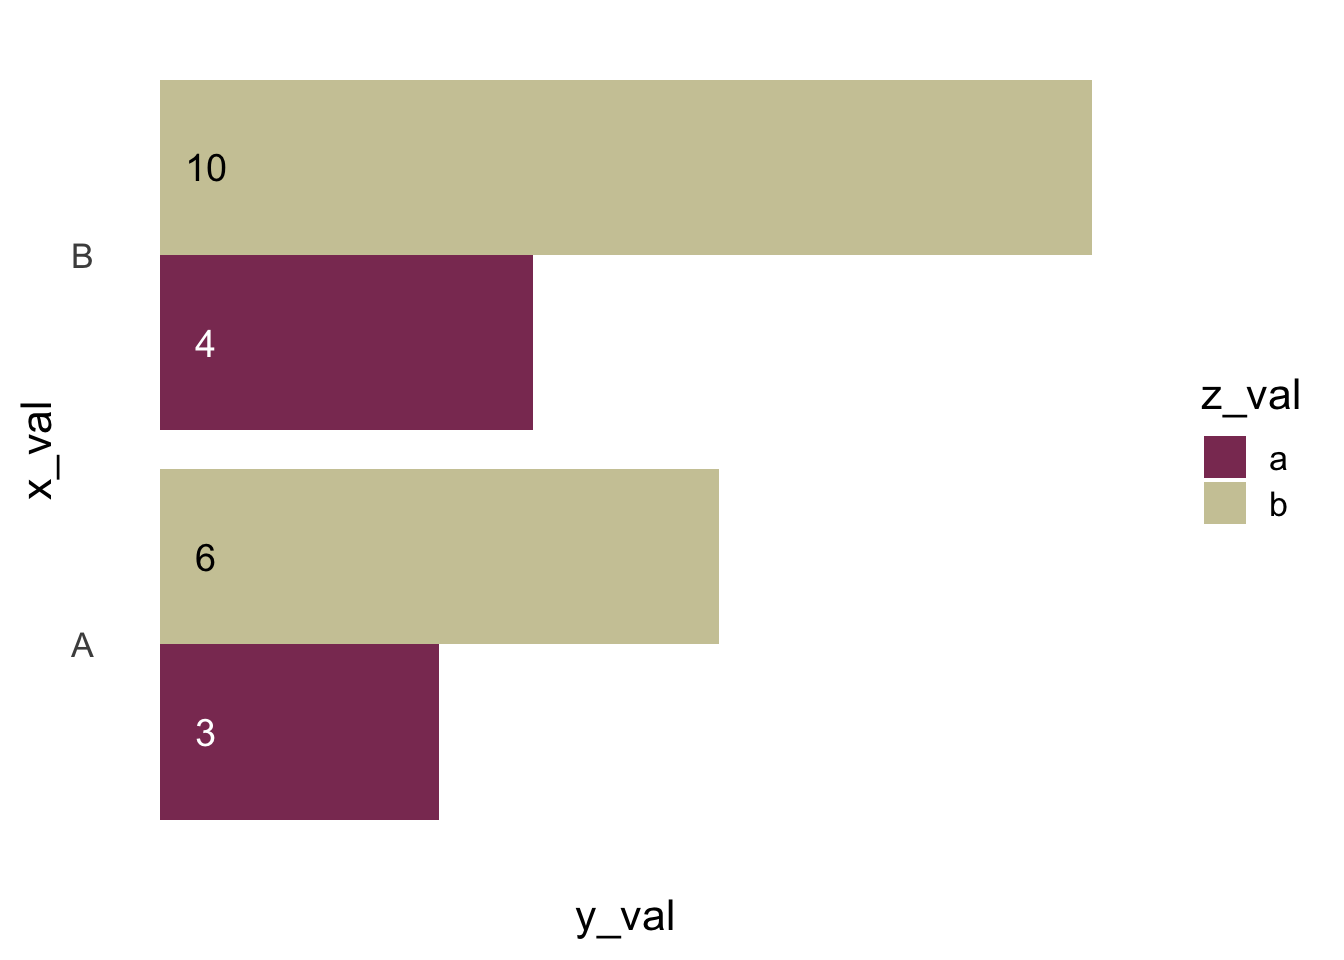
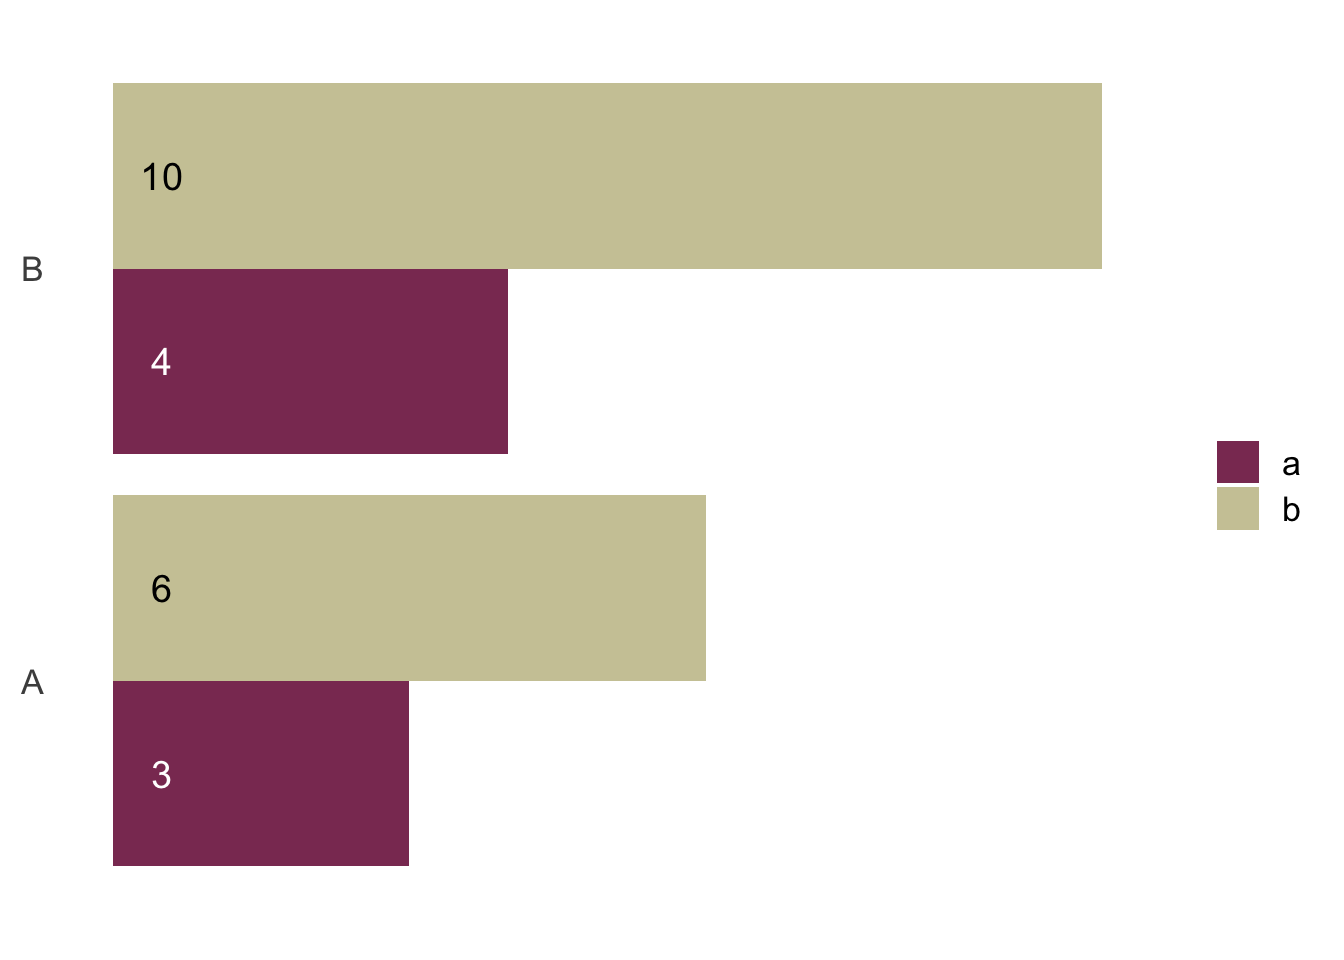
Improve copy in coloratio post

diff --git a/content/post/2020-12-29-coloratio.html b/content/post/2020-12-29-coloratio.html
@@ -1,7 +1,7 @@
 ---
 title: 'Accessible colour contrasts with {coloratio}'
 author: Matt Dray
-date: '2021-01-01'
+date: '2020-12-31'
 slug: coloratio
 categories:
   - data-viz
@@ -10,6 +10,7 @@ categories:
 tags:
   - accessibility
   - coloratio
+  - colour
   - ggplot2
   - r
   - savonliquide
@@ -24,21 +25,21 @@ draft: yes
 <p><img src="/post/2020-12-29-coloratio_files/figure-html/unnamed-chunk-1-1.png" width="768" /></p>
 <div id="tldr" class="section level1">
 <h1>tl;dr</h1>
-<p>I made <a href="https://github.com/matt-dray/coloratio">a small package called {coloratio}</a> to evaluate colour contrast ratios for accessibility. But really this post is about the emotional rollercoaster of writing a package to solve a problem, only to find that a package already exists; <a href="https://github.com/feddelegrand7/savonliquide">{savonliquide}</a> in this case.</p>
+<p>I made <a href="https://github.com/matt-dray/coloratio">a small R package called {coloratio}</a> to evaluate <a href="https://accessibility.blog.gov.uk/2016/06/17/colour-contrast-why-does-it-matter/">colour-contrast ratios for accessibility</a>. Then I found out that <a href="https://github.com/feddelegrand7/savonliquide">{savonliquide}</a> already exists to do this.</p>
 </div>
-<div id="inception" class="section level1">
-<h1>Inception</h1>
-<p>The UK government’s website, <a href="https://www.gov.uk/">GOV.UK</a>, was developed with user needs and accessibility in mind. I wondered if I could use {ggplot2} recreate <a href="https://www.gov.uk/government/publications/examples-of-visual-content-to-use-on-govuk/examples-of-visual-content-to-use-on-govuk">the simple, accessible chart styles</a> suggested for use on GOV.UK by <a href="https://gss.civilservice.gov.uk/">the Government Statistical Service</a>.</p>
-<p>In short, yes. But I wondered: is it possible to programmatically select a high-contrast text colour to overlay the fill colours of a {ggplot2} barplot?</p>
-<p>But what is ‘high contrast’ anyway? Luckily, GOV.UK’s <a href="https://design-system.service.gov.uk/styles/colour/">Design System</a> refers to <a href="https://www.w3.org/TR/WCAG21/#contrast-minimum">W3C’s contrast guidance from WCAG 2.1</a>, which suggests a ratio of 4.5:1 for regular text.</p>
+<div id="accessible-charts" class="section level1">
+<h1>Accessible charts</h1>
+<p>The UK government’s website, <a href="https://www.gov.uk/">GOV.UK</a>, was developed with user needs and accessibility in mind. I’ve been using {ggplot2} to recreate <a href="https://www.gov.uk/government/publications/examples-of-visual-content-to-use-on-govuk/examples-of-visual-content-to-use-on-govuk">the simple, accessible chart styles</a> suggested for use on GOV.UK by <a href="https://gss.civilservice.gov.uk/">the Government Statistical Service</a>.</p>
+<p>But I wondered: is it possible to programmatically select a high-contrast text colour to overlay the fill colours of a {ggplot2} barplot? You would want black text over white and vice versa, for example. It isn’t a big deal to program this ‘manually’, but that’s not fun.</p>
+<p>What is ‘high contrast’ anyway? GOV.UK’s <a href="https://design-system.service.gov.uk/styles/colour/">Design System</a> refers to <a href="https://www.w3.org/TR/WCAG21/#contrast-minimum">W3C’s contrast guidance from WCAG 2.1</a>, which suggests a ratio of 4.5:1 for regular text on a block-coloured background.</p>
 </div>
-<div id="creation" class="section level1">
-<h1>Creation</h1>
-<div id="a-package" class="section level2">
-<h2>A package</h2>
-<p>So how about a function to derive colour contrast ratios for any two colours? Make it a package, why not? Introducing {coloratio}.</p>
+<div id="ratio-calculation" class="section level1">
+<h1>Ratio calculation</h1>
+<div id="is-the-contrast-accessible" class="section level2">
+<h2>Is the contrast accessible?</h2>
+<p>This problem calls for a small package with some functions to derive colour contrast ratios. Introducing <a href="https://github.com/matt-dray/coloratio">{coloratio}</a>.</p>
 <pre class="r"><code>remotes::install_github(&quot;matt-dray/coloratio&quot;)</code></pre>
-<p>Pass two colours to <code>cr_get_ratio()</code> as either named R colours (see <code>colors()</code>) or hex values and it performs the necessary calculations to derive <a href="https://www.w3.org/TR/WCAG/#dfn-relative-luminance">relative luminance</a> and return a <a href="https://www.w3.org/TR/WCAG/#dfn-contrast-ratio">colour contrast ratio</a>.</p>
+<p>Pass two colours to <code>cr_get_ratio()</code> as hex values or named colours—see <code>colors()</code>—and it performs the necessary calculations to derive <a href="https://www.w3.org/TR/WCAG/#dfn-relative-luminance">relative luminance</a> and return a <a href="https://www.w3.org/TR/WCAG/#dfn-contrast-ratio">colour contrast ratio</a>.</p>
 <pre class="r"><code>library(coloratio)  # attach package
 
 cr_get_ratio(
@@ -51,13 +52,16 @@ cr_get_ratio(
 <pre class="r"><code>cr_get_ratio(&quot;olivedrab&quot;, &quot;olivedrab2&quot;)</code></pre>
 <pre><code>## Warning in cr_get_ratio(&quot;olivedrab&quot;, &quot;olivedrab2&quot;): Aim for a value of 4.5 or higher.</code></pre>
 <pre><code>## [1] 2.755693</code></pre>
-<p>We can then use this to return either <code>"black"</code> or <code>"white"</code> depending on the greatest contrast with a supplied background colour.</p>
-<pre class="r"><code>cr_choose_bw(&quot;moccasin&quot;)</code></pre>
-<pre><code>## [1] &quot;black&quot;</code></pre>
+<p>Surprise: as stunning as an all-olivedrab palette might be, these colours aren’t distinct enough to be accessible.</p>
 </div>
-<div id="a-plot" class="section level2">
-<h2>A plot</h2>
-<p>Great, so we can use <code>cr_choose_bw()</code> to programmatically choose the text colour for a given background fill. Let’s create a column with light-ish and dark-ish fill colours, then use <code>cr_choose_bw()</code> to choose black or white for the overlaying text.</p>
+<div id="black-or-white" class="section level2">
+<h2>Black or white?</h2>
+<p><code>cr_get_ratio()</code> in turn powers the function <code>cr_choose_bw()</code>, which returns black or white depending on the greatest contrast with a supplied background colour.</p>
+<pre class="r"><code>cr_choose_bw(&quot;snow&quot;)</code></pre>
+<pre><code>## [1] &quot;black&quot;</code></pre>
+<pre class="r"><code>cr_choose_bw(&quot;saddlebrown&quot;)</code></pre>
+<pre><code>## [1] &quot;white&quot;</code></pre>
+<p>To demonstrate better, let’s create a grouped barplot with lighter (<code>lemonchiffon3</code>) and darker (<code>hotpink4</code>) fill colours, then use <code>cr_choose_bw()</code> to choose black or white for the overlaying text.</p>
 <pre class="r"><code>library(tidyverse)  # for data manipulation
 
 # Example data
@@ -77,48 +81,50 @@ d  # preview</code></pre>
 ## 2     A     6     b lemonchiffon3    black
 ## 3     B     4     a      hotpink4    white
 ## 4     B    10     b lemonchiffon3    black</code></pre>
-<p>Now we can refer to this <code>text_col</code> column in the <code>colour</code> argument of <code>geom_text()</code> to assign the appropriate colour for the given bar. It would default to black otherwise, which would be sub-optimal for the darker bar.</p>
+<p>No surprise: white was returned for the darker fill and black for the lighter fill.</p>
+<p>We can now refer to this information in the <code>colour</code> argument of <code>geom_text()</code>.</p>
 <pre class="r"><code>ggplot(d, aes(x_val, y_val, fill = z_val)) +
-  geom_bar(position = &quot;dodge&quot;, stat = &quot;identity&quot;) +  # add bars
-  scale_fill_manual(values = d$fill_col) +  # colour the bars
-  geom_text(  # add bar-overlay text
-    aes(y = 0.5, label = y_val), position = position_dodge(0.9), 
-    size = 5, colour = d$text_col  # as chosen by cr_choose_bw()
-  ) + 
-  coord_flip() + theme_minimal(base_size = 16) + 
-  theme(axis.text.x = element_blank(), panel.grid = element_blank())</code></pre>
+  geom_bar(position = &quot;dodge&quot;, stat = &quot;identity&quot;) +
+  scale_fill_manual(values = d$fill_col) +    # fill colour
+  geom_text(aes(y = 0.5, label = y_val), 
+            position = position_dodge(0.9), 
+            size = 5, colour = d$text_col) +  # text colour 
+  coord_flip() + 
+  theme_minimal(base_size = 16) +  # clean up the theme
+  theme(axis.text.x = element_blank(), axis.title = element_blank(), 
+        legend.title = element_blank(), panel.grid = element_blank())</code></pre>
 <p><img src="/post/2020-12-29-coloratio_files/figure-html/unnamed-chunk-7-1.png" width="672" /></p>
+<p>As desired: black on the lighter fill; white on the darker fill. The default would be black text, which would provide insufficient contrast for darker fills.</p>
 </div>
-<div id="a-challenge" class="section level2">
-<h2>A challenge</h2>
-<p>As an aside, I originally wanted <code>geom_text()</code> to choose text colours on the fly, rather than by specifying them ‘manually’ in the input data. My roundabout solution requires you to build the plot object, then interrogate it with <code>ggplot_build()</code> to identify the bar-fill colours. This code evaluates to the same plot output as above.</p>
-<pre class="r"><code># Build grouped bar plot
+<div id="aside-cr_choose_bw-in-geom_text" class="section level2">
+<h2>Aside: <code>cr_choose_bw()</code> in <code>geom_text()</code>?</h2>
+<p>Originally I wanted <code>geom_text()</code> to choose text colours on the fly, rather than adding them to the input data. This roundabout solution—which outputs a similar plot to the one above—requires you to build the plot object, then interrogate it with <code>ggplot_build()</code> to identify the bar-fill colours.</p>
+<pre class="r"><code># Build simple grouped barplot again
 p &lt;- ggplot(d, aes(x_val, y_val, fill = z_val)) +
   geom_bar(position = &quot;dodge&quot;, stat = &quot;identity&quot;) +
   scale_fill_manual(values = c(&quot;hotpink4&quot;, &quot;lemonchiffon3&quot;)) +
-  coord_flip() + theme_minimal(base_size = 16) + 
-  theme(axis.text.x = element_blank(), panel.grid = element_blank())
+  coord_flip()
 
-# Extract the p object fills and choose text overlay colour
+# Extract the p-object fills and choose text overlay colour
 p + geom_text(
   aes(y = 0.5, label = y_val), position = position_dodge(0.9), size = 5,
   colour = map_chr(  # make text colour dependent on bar colour
-    ggplot_build(p)[[1]][[1]]$fill,  # access the fills from the p object
+    ggplot_build(p)[[1]][[1]]$fill,  # access p-object fills
     coloratio::cr_choose_bw   # choose black/white text based on fill
   )
 )</code></pre>
 <p>I put this to <a href="https://community.rstudio.com/t/can-you-conditionally-choose-geom-text-colours-based-on-underlying-geom-bar-fills/91777">the RStudio Community</a> with no answer to date. Let me know if you have any ideas.</p>
 </div>
 </div>
-<div id="despair" class="section level1">
-<h1>Despair</h1>
-<p>Having solved this little problem, I was suspicious. Surely this has been done in R before? I put out a tweet to investigate.</p>
+<div id="a-soapy-slip-up" class="section level1">
+<h1>A soapy slip-up</h1>
+<p>Having addressed my need, I was suspicious. Surely this has been done in R before? I put out a tweet to investigate.</p>
 {{% tweet "1342160455557668866" %}}
-<p>I very quickly realised my error.</p>
+<p>I soon realised my error. Merry Christmas!</p>
 {{% tweet "1342267391007477762" %}}
-<p>Whoops. <a href="https://github.com/feddelegrand7/savonliquide">{savonliquide}</a> by <a href="https://twitter.com/moh_fodil">Ihaddaden M. EL Fodil</a> can query the <a href="https://webaim.org/resources/contrastchecker/">WebAIM contrast checker API</a> to get the contrast ratio for two colours. And it’s on CRAN! Perhaps I missed it because of the name, which translates to ‘hand soap’?</p>
+<p>Whoops. <a href="https://github.com/feddelegrand7/savonliquide">{savonliquide}</a> by <a href="https://twitter.com/moh_fodil">Ihaddaden M. EL Fodil</a> can query the <a href="https://webaim.org/resources/contrastchecker/">WebAIM contrast checker API</a> to get the contrast ratio for two colours. And it’s on CRAN. Perhaps I missed it because of the name, which translates to ‘hand soap’?</p>
 <pre class="r"><code>install.packages(&quot;savonliquide&quot;)</code></pre>
-<p>Like <code>coloratio::cr_get_ratio()</code>, you can pass two named colours or hex values.</p>
+<p>Like <code>coloratio::cr_get_ratio()</code>, you can pass two hex values or named colours to {savonliquide}’s <code>check_contrast()</code> function.</p>
 <pre class="r"><code>savonliquide::check_contrast(&quot;blanchedalmond&quot;, &quot;bisque2&quot;)</code></pre>
 <pre><code>## 
 ## * The Contrast Ratio is 1.04
@@ -130,15 +136,16 @@ p + geom_text(
 ## * The result for the AAA check is : FAIL
 ## 
 ## * The result for the AAALarge check is : FAIL</code></pre>
-<p>You get a more informative output than <code>cr_get_ratio()</code>; it also provides results from testing against <a href="https://www.w3.org/TR/WCAG21/#contrast-minimum">the more stringent accessibility checks of WCAG 2.1</a>. Here, the two colours provided are so similar that they fail across the board.</p>
+<p>You get a more informative output than for <code>coloratio::cr_get_ratio()</code>: it provides results from testing against <a href="https://www.w3.org/TR/WCAG21/#contrast-minimum">additional accessibility checks in WCAG 2.1</a> that involve larger text and more a stringent contrast threshold.</p>
+<p>The two provided colours above are so similar that they fail the tests across the board.</p>
 <p>Handily, there’s also the <code>savonliquide::check_contrast_raw()</code> variant that returns a list with each result as an element.</p>
 </div>
 <div id="acceptance" class="section level1">
 <h1>Acceptance</h1>
-<p>So… should you wash your hands of {coloratio}?<a href="#fn1" class="footnote-ref" id="fnref1"><sup>1</sup></a> Well, it at least fills the micro-niche of an R package that doesn’t require an internet connection to fetch colour contrast ratios. But it’s probably never going to go on CRAN, so you should use {savonliquide}.</p>
-<p>I could say I learnt a lesson about doing due diligence when developing a package. But I also <a href="https://twitter.com/mattdray/status/1343289157565689856?s=20">discovered recently</a> that I had somehow managed to reinvent <a href="https://github.com/GuangchuangYu/badger">the {badger} package</a> with <a href="https://www.rostrum.blog/2020/05/08/readme-badge/">my own {badgr} package</a>.<a href="#fn2" class="footnote-ref" id="fnref2"><sup>2</sup></a></p>
-<p>At worst, I got to learn more about colour accessibility,<a href="#fn3" class="footnote-ref" id="fnref3"><sup>3</sup></a> practice some package building, and laugh at the funny named colour set available in R.</p>
-<p>‘Papayawhip’ sounds delicious. And painful.</p>
+<p>So… should you wash your hands of {coloratio}?<a href="#fn1" class="footnote-ref" id="fnref1"><sup>1</sup></a> Well, it fills the micro-niche of an R package that doesn’t require an internet connection to fetch colour contrast ratios. But it’s probably never going to go on CRAN, so you should use {savonliquide}.</p>
+<p>I certainly learnt a lesson about due diligence during package development. Especially because I also <a href="https://twitter.com/mattdray/status/1343289157565689856?s=20">discovered recently</a> that I had also somehow managed to reinvent <a href="https://github.com/GuangchuangYu/badger">the {badger} package</a> with <a href="https://www.rostrum.blog/2020/05/08/readme-badge/">my own {badgr} package</a>.<a href="#fn2" class="footnote-ref" id="fnref2"><sup>2</sup></a></p>
+<p>At worst, I got to learn more about accessibility, practice some package building, and solve my initial problem (kinda).</p>
+<p>I also got to admire the creativity of <a href="https://cpb-us-e1.wpmucdn.com/sites.ucsc.edu/dist/d/276/files/2015/10/colorbynames.png">the names in the named-colour set</a>. ‘Papayawhip’ sounds really appealing. Or perhaps painful. <em>Just like package development.</em><a href="#fn3" class="footnote-ref" id="fnref3"><sup>3</sup></a></p>
 <hr />
 <details>
 <summary>
@@ -154,7 +161,7 @@ Session info
 ##  collate  en_GB.UTF-8                 
 ##  ctype    en_GB.UTF-8                 
 ##  tz       Europe/London               
-##  date     2020-12-29                  
+##  date     2020-12-30                  
 ## 
 ## ─ Packages ───────────────────────────────────────────────────────────────────
 ##  package      * version    date       lib source                          
@@ -229,8 +236,8 @@ Session info
 <div class="footnotes">
 <hr />
 <ol>
-<li id="fn1"><p>This is an excellent <em>savon liquide</em> pun.<a href="#fnref1" class="footnote-back">↩</a></p></li>
+<li id="fn1"><p>I assure you this is an excellent <em>savon liquide</em> pun.<a href="#fnref1" class="footnote-back">↩</a></p></li>
 <li id="fn2"><p>{badger} has functions to generate a bunch of badges you’re likely to want. {badgr} focuses only on custom badges and has some extra options relative to <code>badger::badge_custom()</code>, like the ability to add an icon. But wow, how did I miss this?<a href="#fnref2" class="footnote-back">↩</a></p></li>
-<li id="fn3"><p>Disclaimer: I have deuteranopia.<a href="#fnref3" class="footnote-back">↩</a></p></li>
+<li id="fn3"><p>#deep<a href="#fnref3" class="footnote-back">↩</a></p></li>
 </ol>
 </div>

diff --git a/public/index.html b/public/index.html
@@ -55,17 +55,14 @@
   
   <div class="archive">
     
-    <h2 class="archive-title">2021</h2>
+    <h2 class="archive-title">2020</h2>
     
     <article class="archive-item">
-      <a href="/2021/01/01/coloratio/" class="archive-item-link">Accessible colour contrasts with {coloratio}</a>
+      <a href="/2020/12/31/coloratio/" class="archive-item-link">Accessible colour contrasts with {coloratio}</a>
       <span class="archive-item-date">
-        2021-01-01
+        2020-12-31
       </span>
     </article>
-    
-    
-    <h2 class="archive-title">2020</h2>
     
     <article class="archive-item">
       <a href="/2020/12/20/londonmapbot-leaflet/" class="archive-item-link">Mapping londonmapbot tweets with {leaflet}</a>

diff --git a/public/post/index.html b/public/post/index.html
@@ -54,17 +54,14 @@
   
   <div class="archive">
     
-    <h2 class="archive-title">2021</h2>
+    <h2 class="archive-title">2020</h2>
     
     <article class="archive-item">
-      <a href="/2021/01/01/coloratio/" class="archive-item-link">Accessible colour contrasts with {coloratio}</a>
+      <a href="/2020/12/31/coloratio/" class="archive-item-link">Accessible colour contrasts with {coloratio}</a>
       <span class="archive-item-date">
-        2021-01-01
+        2020-12-31
       </span>
     </article>
-    
-    
-    <h2 class="archive-title">2020</h2>
     
     <article class="archive-item">
       <a href="/2020/12/20/londonmapbot-leaflet/" class="archive-item-link">Mapping londonmapbot tweets with {leaflet}</a>
